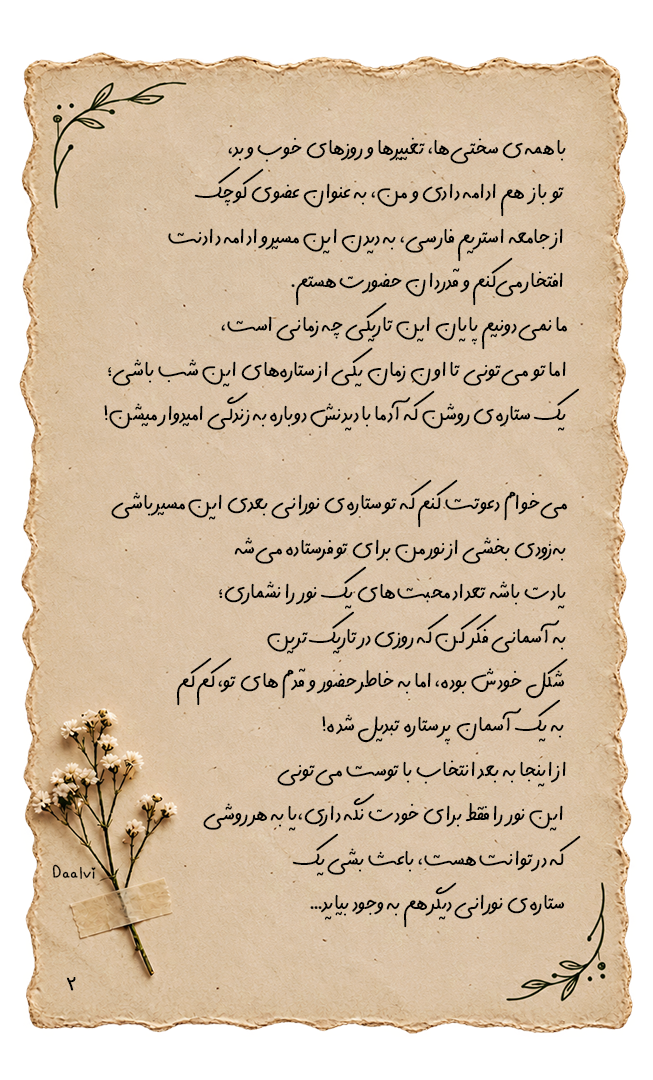
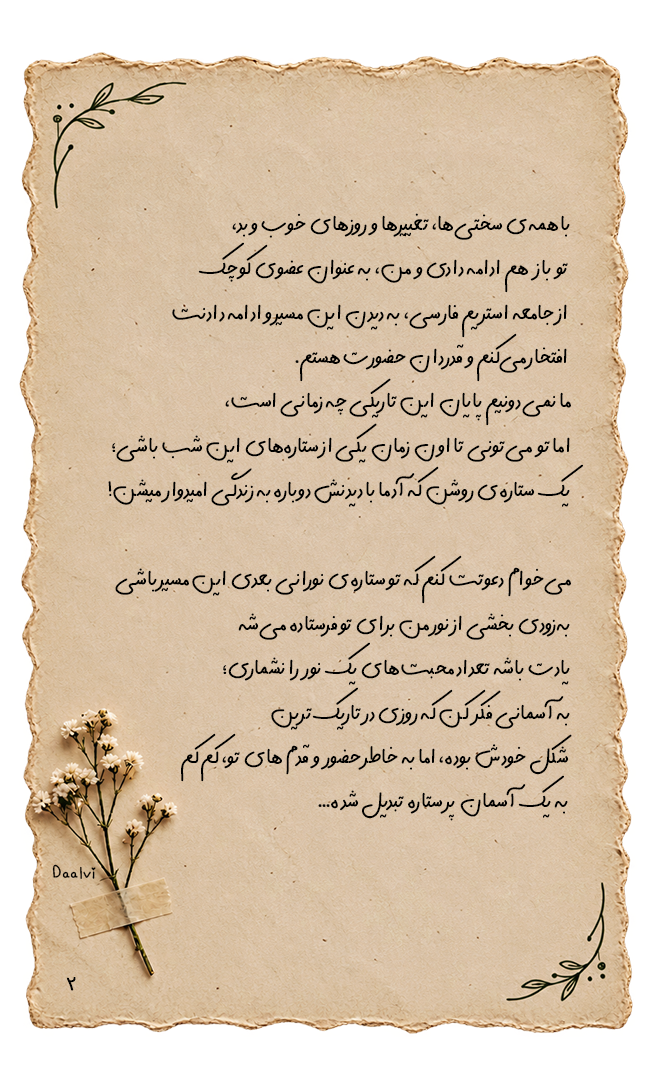
Update pages 2 and 3 images again; readjust page 3 button
Pages 2 and 3 revised again. Page 3's text now runs slightly longer,
so re-measured the blank footer area and moved the "دریافت نور" button
from top:74% to top:80% to keep it clear of the last text line.

Changed region(s): [[0.1531, 0.1222, 0.8882, 0.7944], [0.4594, 0.7944, 0.8576, 0.8556]]

diff --git a/styles.css b/styles.css
@@ -468,7 +468,7 @@ body::before{
 
 .letter-face.page1 .note-next-btn{top:85%}
 .letter-face.page2 .note-next-btn{top:86%}
-.letter-face.page3 .note-next-btn{top:74%}
+.letter-face.page3 .note-next-btn{top:80%}
 
 /* ==========================================================================
    Countdown — the light being sent. Kept deliberately bare: a number, a
